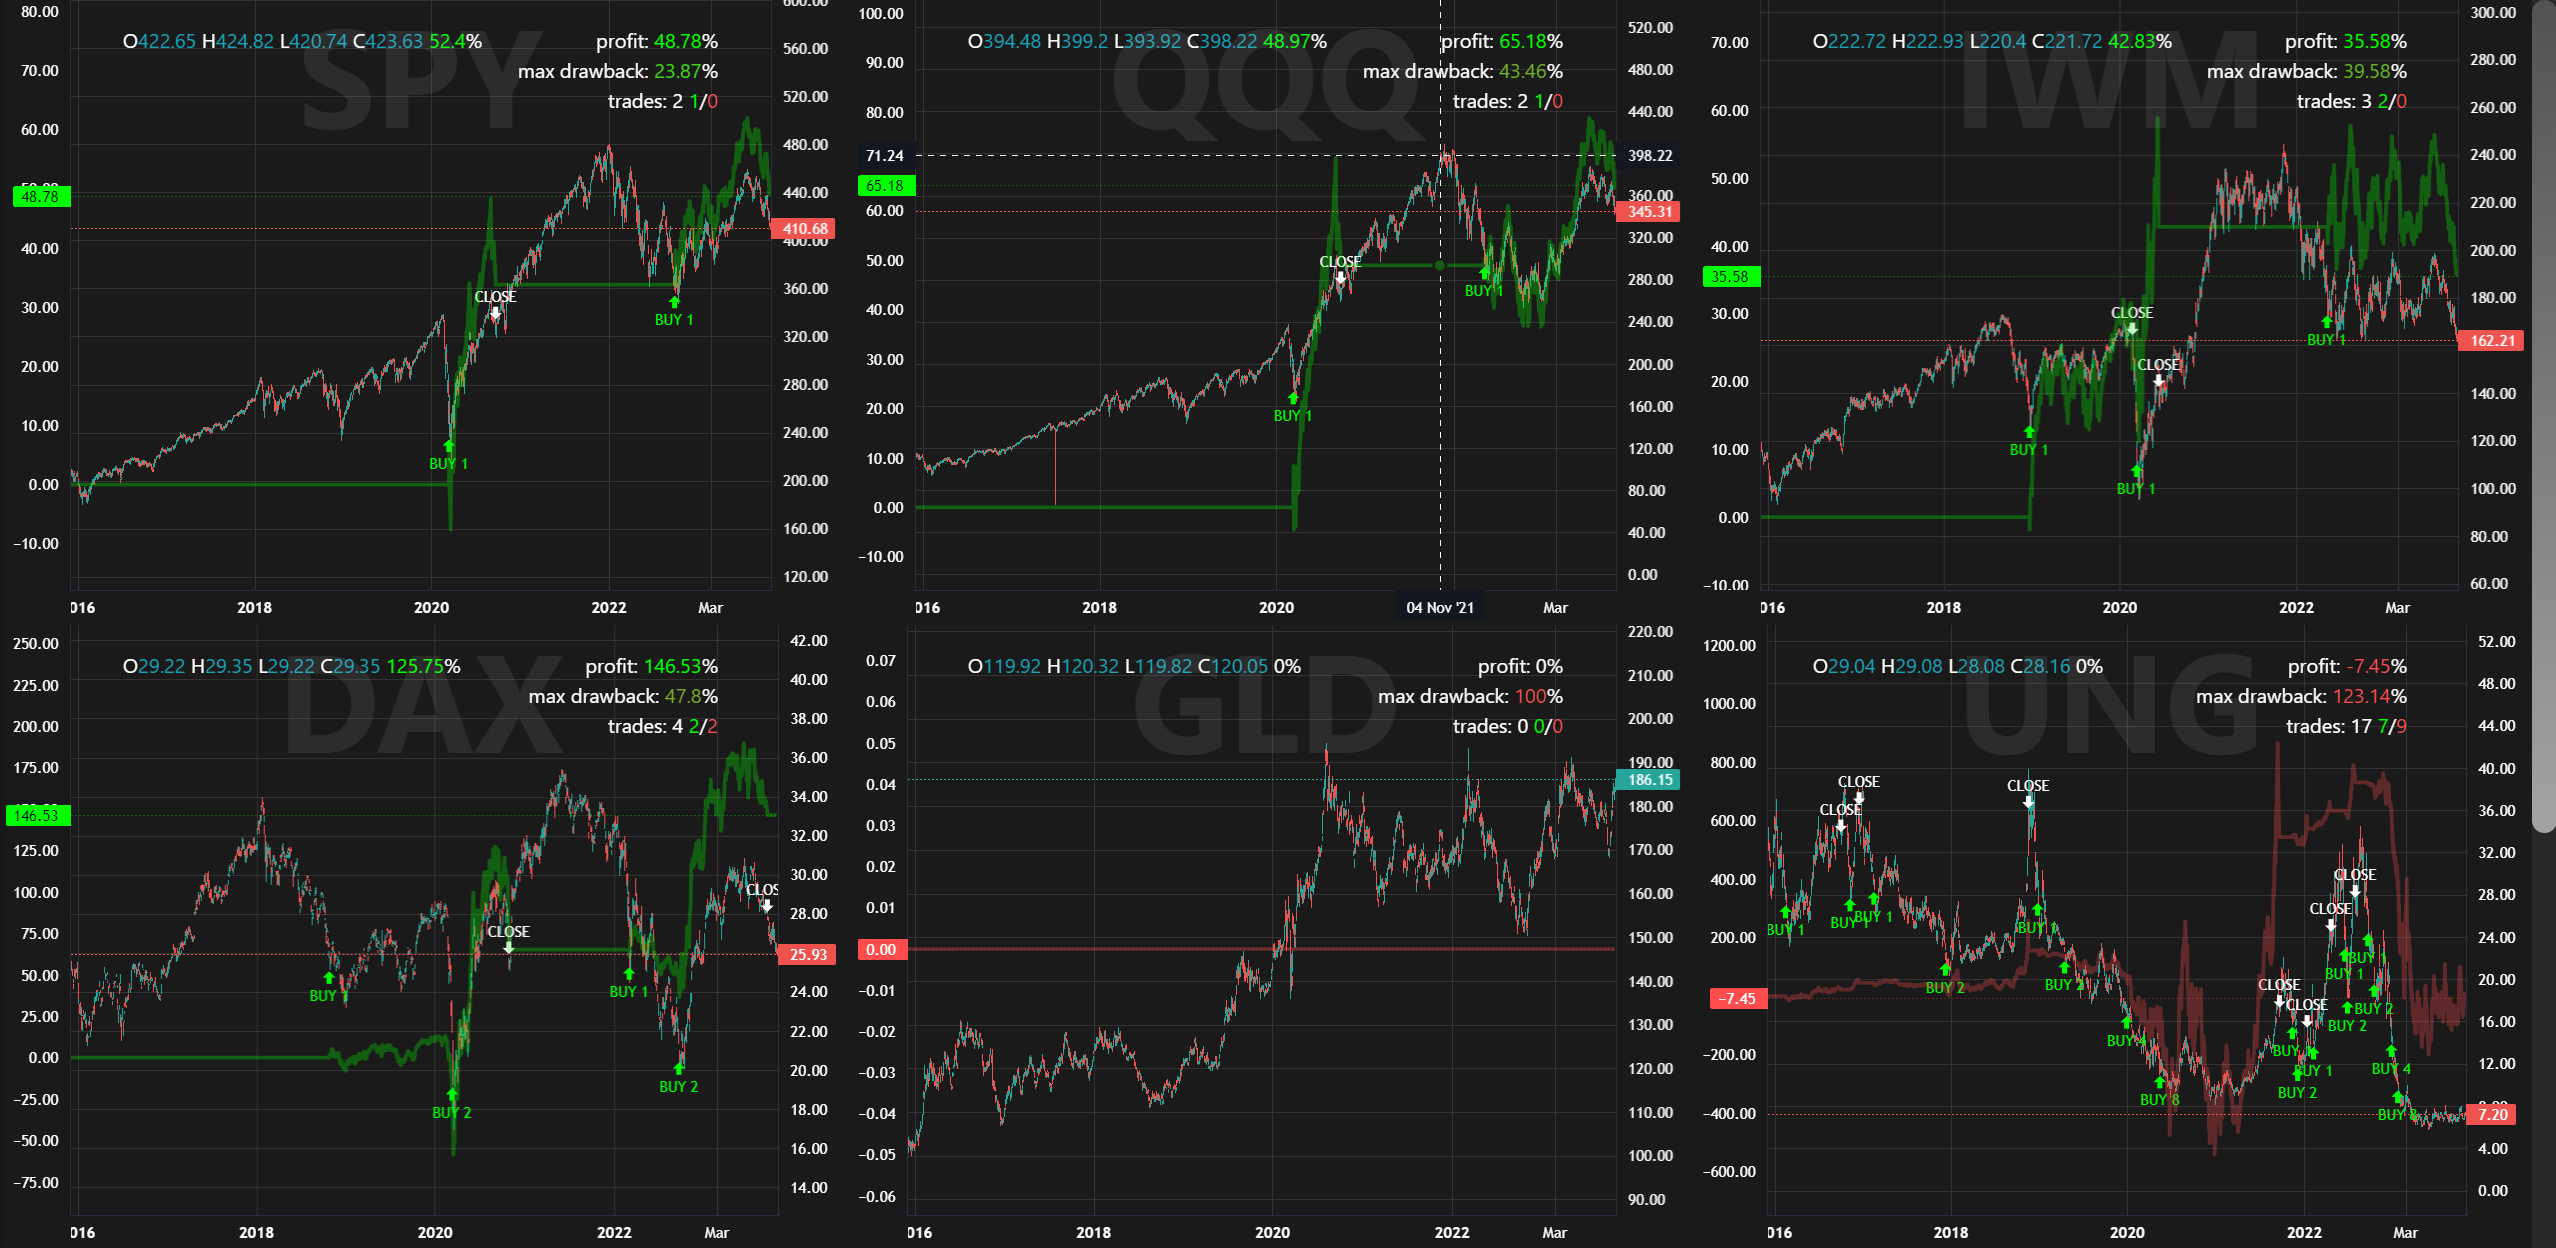
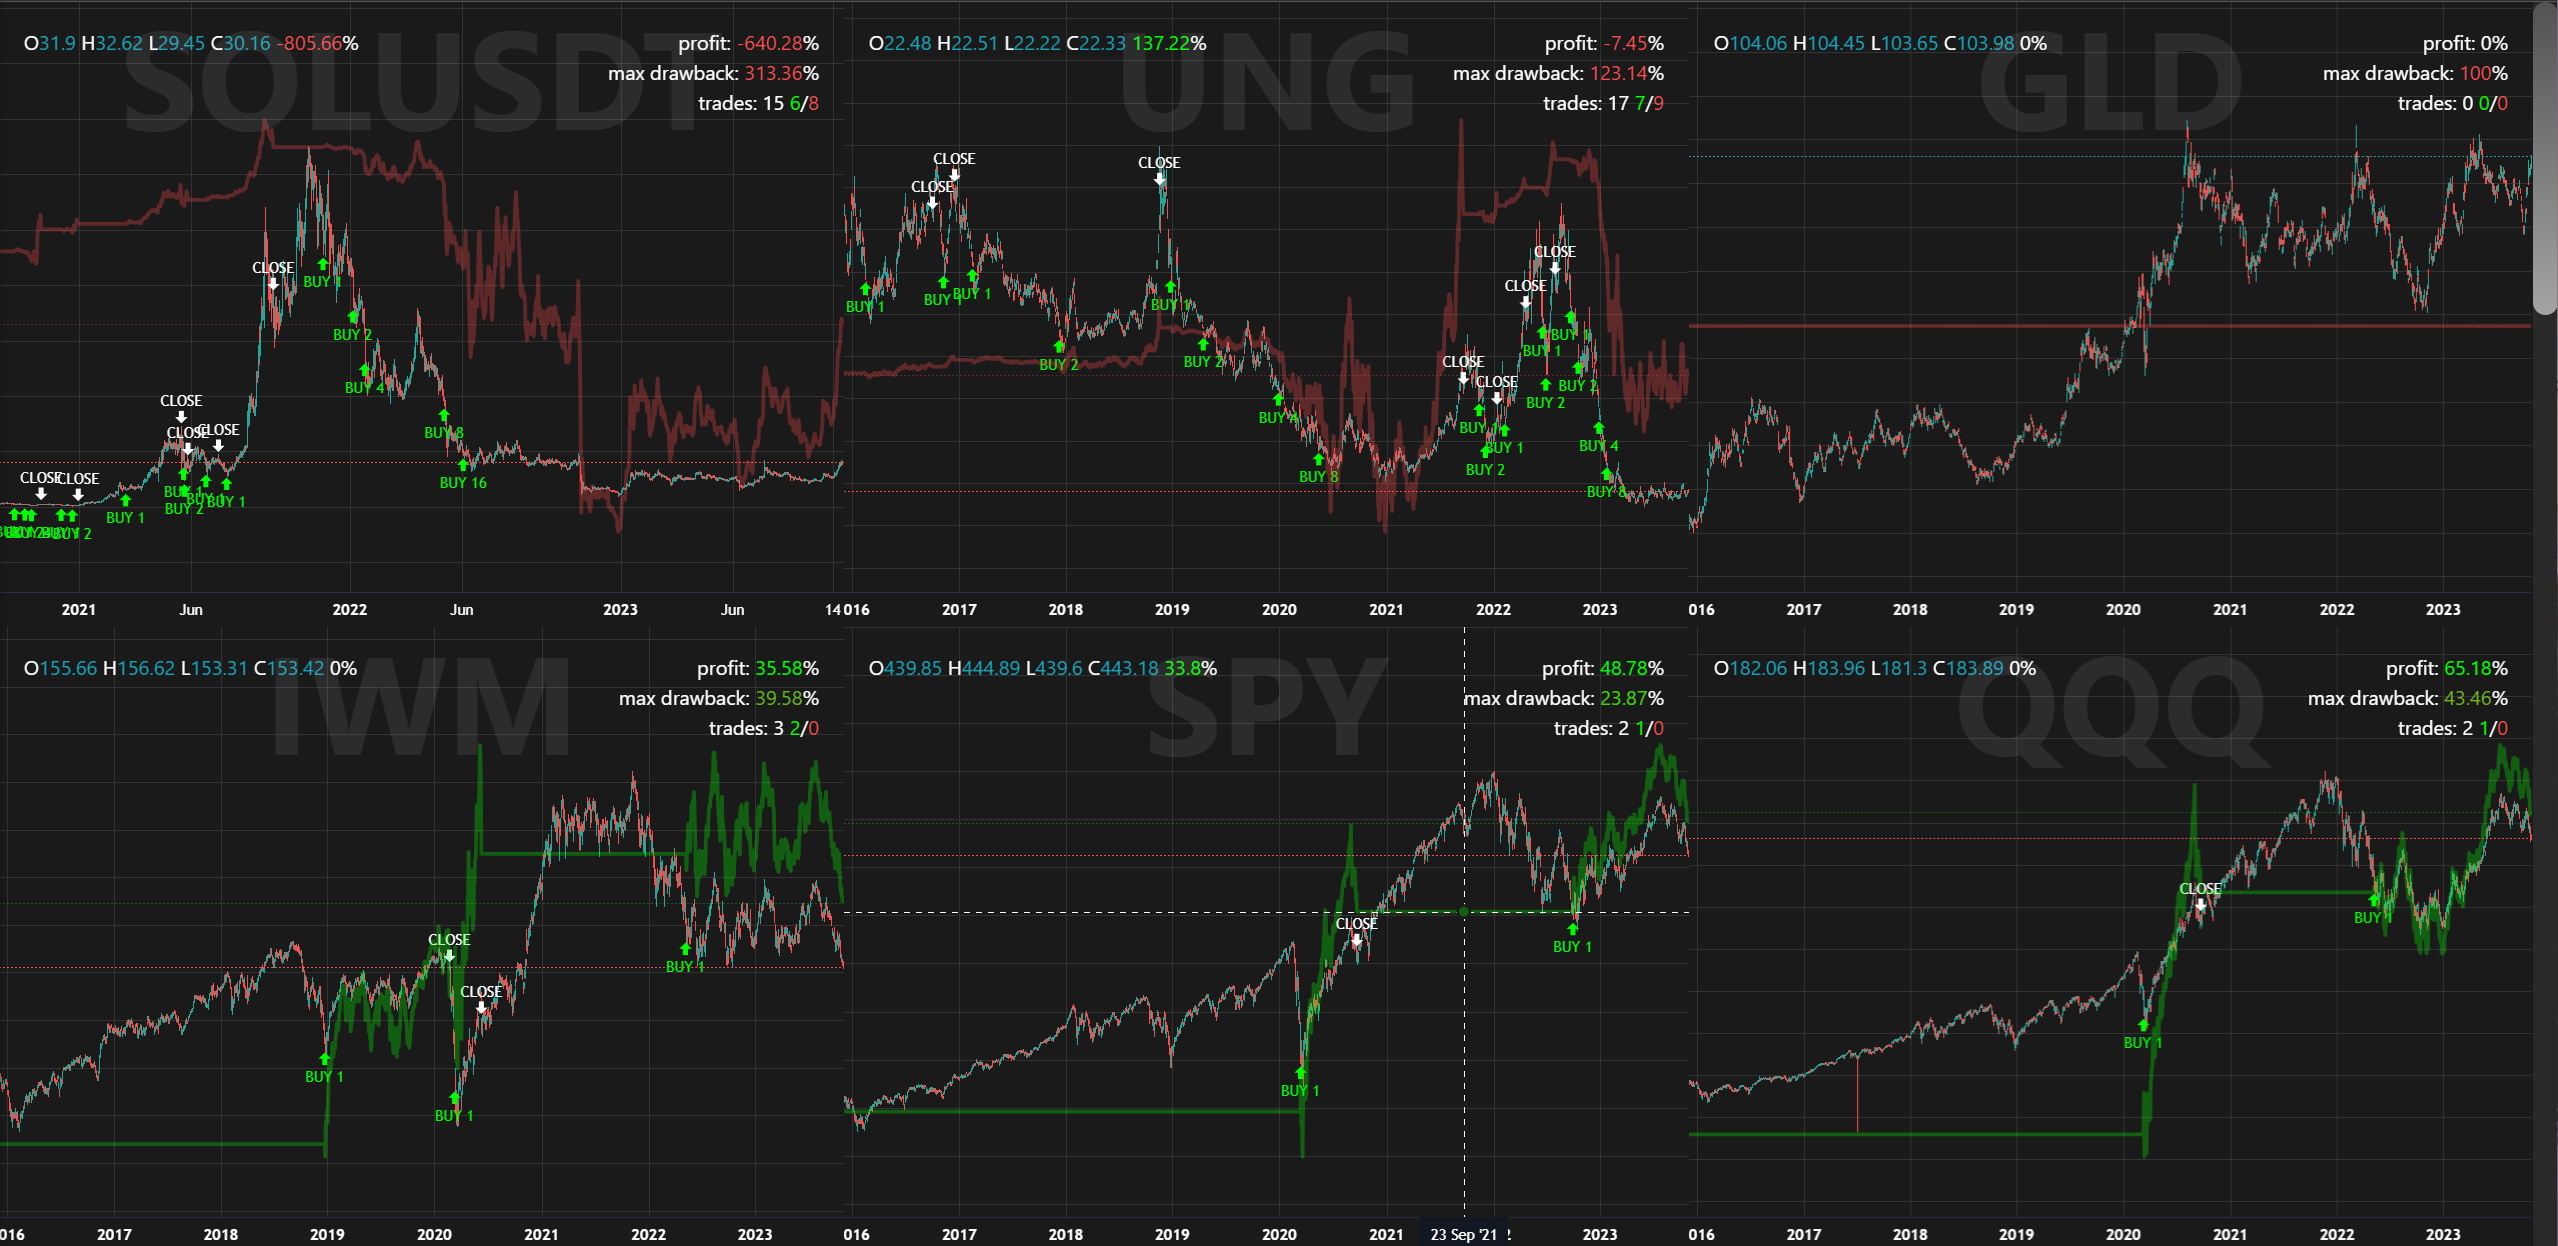
styling

diff --git a/apps/large-trading-api-frontend/src/app/mixed-chart/mixed-chart.component.html b/apps/large-trading-api-frontend/src/app/mixed-chart/mixed-chart.component.html
@@ -1,5 +1,5 @@
 <div #container class="w-100 h-100 position-relative chart-container">
-  <div *ngIf="ohlc" #legend class="position-absolute legend-left">
+  <div *ngIf="ohlc" #legend class="position-absolute legend-left" [ngStyle]="{'left': chartService.isMulti ? '20px' : '100px'}">
     <span>O</span>
     <span class="text-info">{{ ohlc.open }}</span>
     <span> H</span>
@@ -15,7 +15,7 @@
     <img *ngIf="!chartService.isMulti" class="d-inline-block mr-4 mt-4" [src]="'assets/images/' + chartService.exchange + '.png'">
     <p class="d-inline-block font-weight-bold" [ngStyle]="{'font-size': chartService.isMulti ? '110px' : '200px'}">{{ currentKlines[0].symbol }}</p>
   </div>
-  <div class="position-absolute legend-right">
+  <div class="position-absolute legend-right" [ngStyle]="{'right': chartService.isMulti ? '20px' : '100px'}">
     <div *ngIf="!chartService.isMulti">
       <label class="mr-2">commission</label>
       <input class="align-middle" type="checkbox" (change)="onCommissionChange($event)">

diff --git a/apps/large-trading-api-frontend/src/app/mixed-chart/mixed-chart.component.ts b/apps/large-trading-api-frontend/src/app/mixed-chart/mixed-chart.component.ts
@@ -53,11 +53,15 @@ export class MixedChartComponent extends BaseComponent implements OnInit, OnDest
         width: container.clientWidth,
         height: container.clientHeight,
         leftPriceScale: {
-          visible: true
+          visible: !this.chartService.isMulti
+        },
+        rightPriceScale: {
+          visible: !this.chartService.isMulti
         },
         timeScale: {
           minBarSpacing: 0.001
-        }
+        },
+        
       });
 
       this.addLegend();

diff --git a/apps/large-trading-api-frontend/src/app/mixed-chart/mixed-chart.component.scss b/apps/large-trading-api-frontend/src/app/mixed-chart/mixed-chart.component.scss
@@ -15,7 +15,6 @@
 
   .legend-left {
     top: 20px;
-    left: 100px;
     z-index: 10;
     user-select: none;
     pointer-events: none;
@@ -37,7 +36,6 @@
 
   .legend-right {
     top: 20px;
-    right: 100px;
     z-index: 10;
 
     input {

diff --git a/apps/large-trading-api-frontend/src/app/chart.service.ts b/apps/large-trading-api-frontend/src/app/chart.service.ts
@@ -31,7 +31,7 @@ export class ChartService {
 
   // multi
   public isMulti = true;
-  public multiAutoParams = true;
+  public multiAutoParams = false;
   public multiRank = 10;
 
   constructor() {
